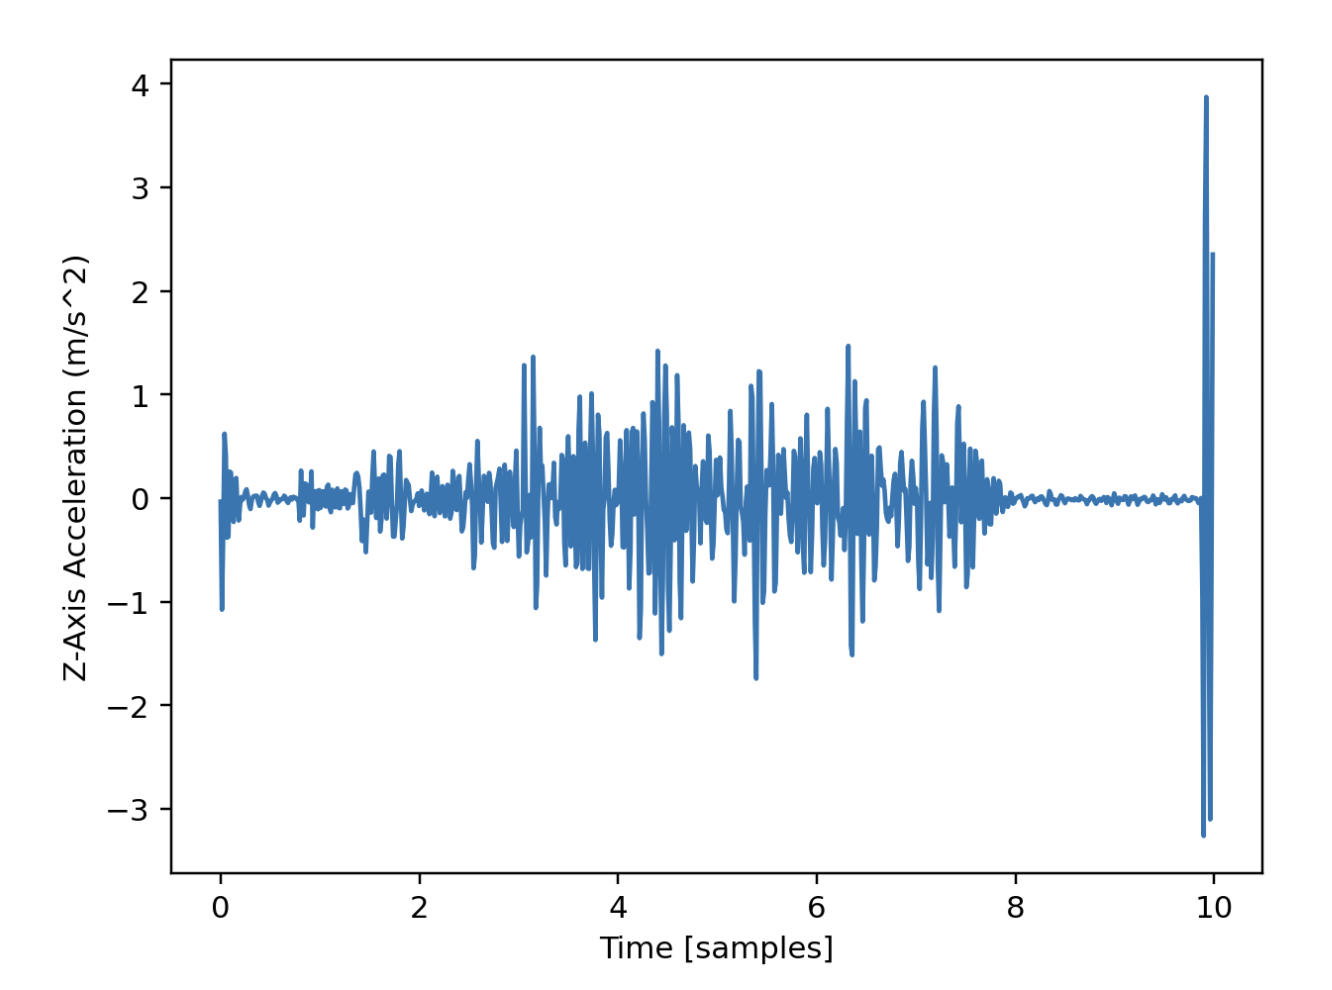
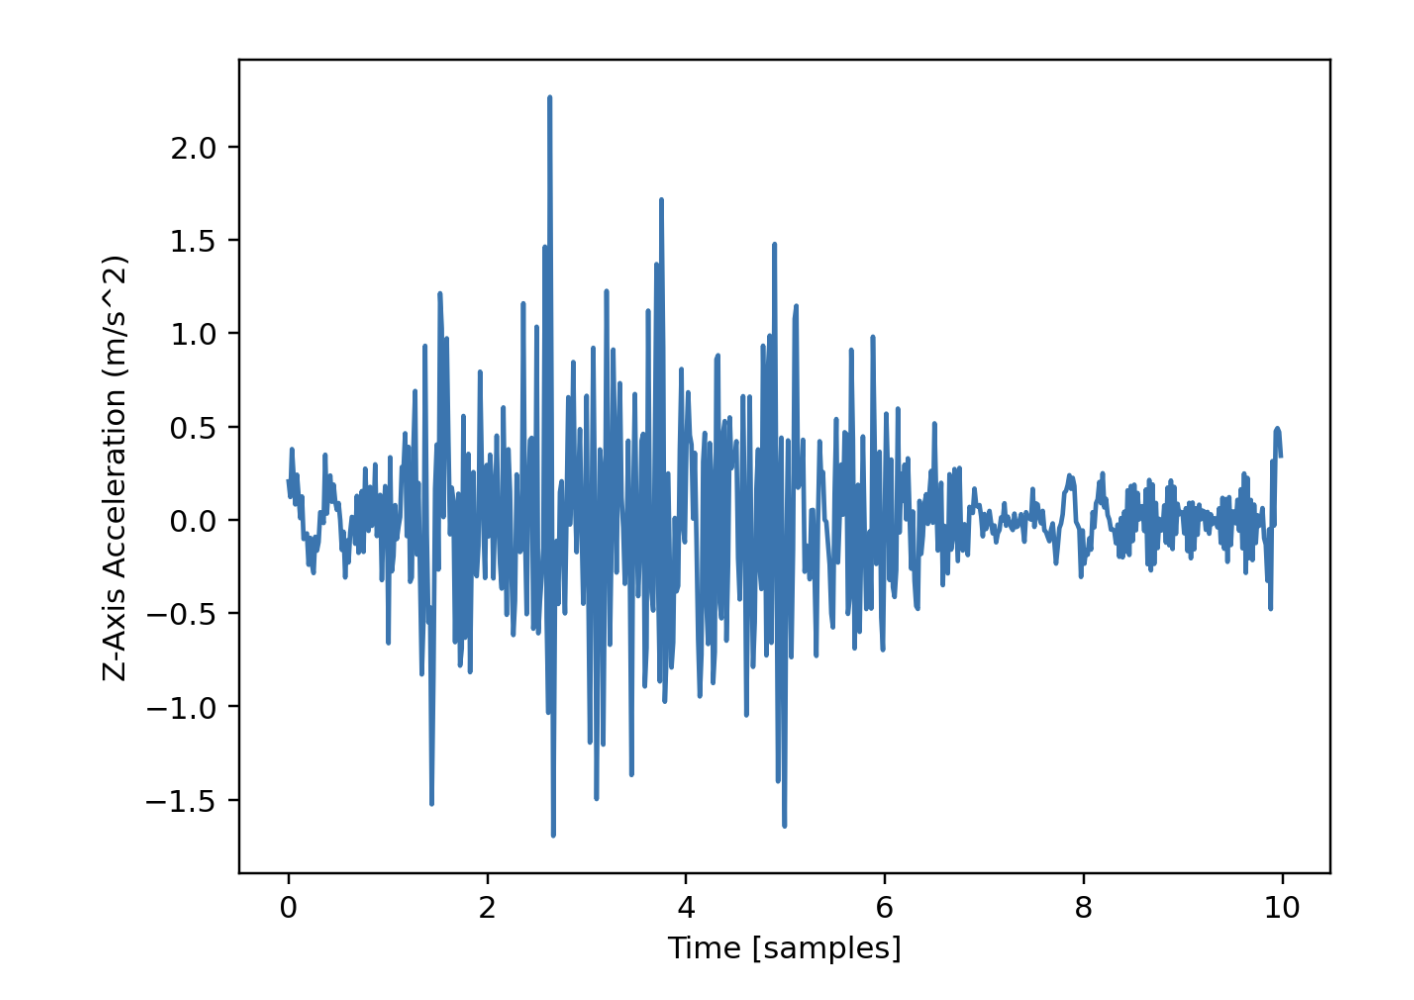
updated csv reading sensor data

diff --git a/app.py b/app.py
@@ -2,6 +2,8 @@ from flask import Flask, request, make_response, render_template
 import matplotlib.pyplot as plt
 from io import BytesIO
 import os
+import pandas as pd
+import numpy as np
 
 
 plt.switch_backend('Agg')
@@ -18,9 +20,29 @@ def root():
 @app.route('/visualization/<int:id>')
 def generate_visualization(id):
     # Generate the image using Matplotlib
+    # fig, ax = plt.subplots()
+    # ax.plot([1, 2, 3, 4], [1, 4, 2, 3])
+    # ax.set_title('Sample Visualization')
+    # img_bytes = BytesIO()
+    # fig.savefig(img_bytes, format='png')
+    # plt.close(fig)
+    # img_bytes.seek(0)
+
+        # Read the CSV file
+    data = pd.read_csv('static/data.csv')
+    z_acc = data["Linear Acceleration z (m/s^2)"]
+    t = np.linspace(0, 10, len(z_acc), endpoint=False)
+
+
+    # Generate the plot using Matplotlib
     fig, ax = plt.subplots()
-    ax.plot([1, 2, 3, 4], [1, 4, 2, 3])
-    ax.set_title('Sample Visualization')
+    # ax.plot(data['x'], data['y'])
+    ax.plot(t, z_acc)
+    ax.set_xlabel('Time [samples]')
+    ax.set_ylabel('Z-Axis Acceleration (m/s^2)')
+    # ax.ylabel("Z-Axis Acceleration (m/s^2)")
+    # ax.xlabel("Time [samples]")
+    ax.set_title('Z-axis accelerometer raw data')
     img_bytes = BytesIO()
     fig.savefig(img_bytes, format='png')
     plt.close(fig)
